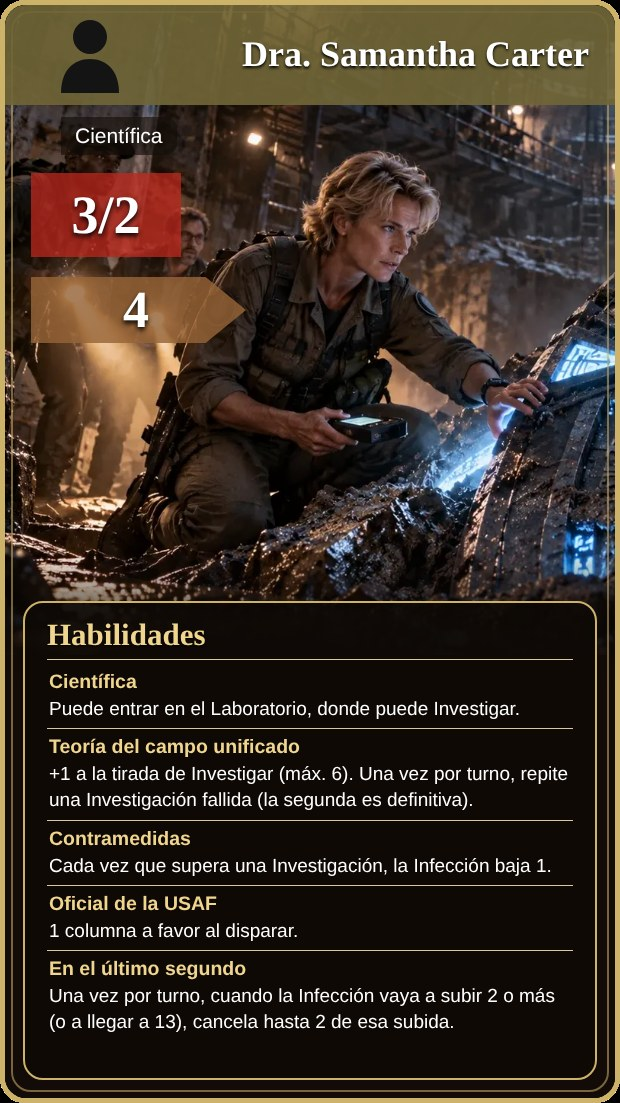
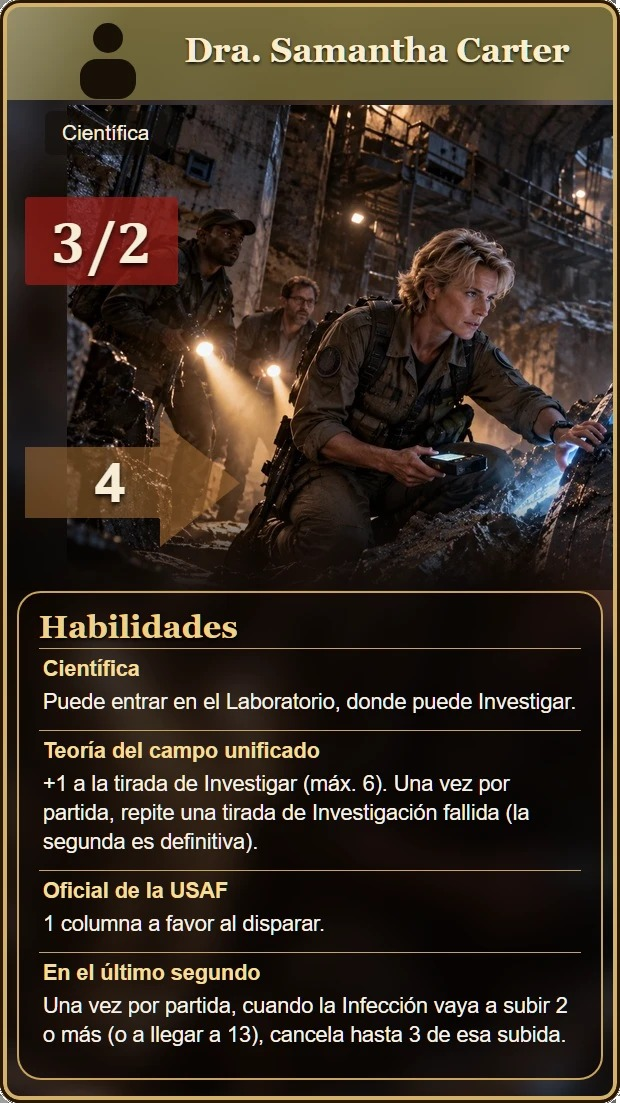
Dra. Carter: se deshacen la carta y el rediseño de habilidades (vuelve a como estaba)
Claude-Session: https://claude.ai/code/session_01KmRiLam16qxK6v4ebdfK1d

diff --git a/js/expansions.js b/js/expansions.js
@@ -25,7 +25,7 @@ Object.assign(HEROES, {
   doc: { name: 'Dr. Emmett «Doc» Brown', type: 'hero', cls: 'Científico', full: 2, red: 1, mp: 4, img: 'doc', lv: 3, exp: 4,
     txt: ['<b>Científico:</b> puede entrar en el Laboratorio, donde puede Investigar.', '<b>Mr. Fusion:</b> si al Buscar no encuentra nada, obtiene 1 Suministro.', '<b>Salto temporal:</b> Acción de Personaje (3 Suministros), una vez por turno, solo desde el Centro. Doc, con una unidad agrupada con él si quiere, viaja a un espacio de ruta de superficie sin Zeds que no sea Inicial. La unidad acompañante puede quedarse allí (no pueden acompañarlo Pepinillos, Horacio, el General Lee ni Carter). Doc vuelve al Centro al final del turno, tras el Mantenimiento, y puede volver solo, con la unidad que llevó o con otra que esté en su espacio.', '<b>Paradoja:</b> si Doc está en un espacio con Caos durante el Mantenimiento, restaurar el orden allí no sube la Infección.'] },
   samcarter: { name: 'Dra. Samantha Carter', type: 'hero', cls: 'Científica', full: 3, red: 2, mp: 4, img: 'samcarter', lv: 3, exp: 4,
-    txt: ['<b>Científica:</b> puede entrar en el Laboratorio, donde puede Investigar.', '<b>Teoría del campo unificado:</b> +1 a la tirada de Investigar (máx. 6). Una vez por turno, repite una tirada de Investigación fallida (la segunda es definitiva).', '<b>Oficial de la USAF:</b> 1 columna a favor al disparar.', '<b>Contramedidas:</b> cada vez que supera una Investigación, la Infección baja 1.', '<b>En el último segundo:</b> una vez por turno, cuando la Infección vaya a subir 2 o más (o a llegar a 13), cancela hasta 2 de esa subida.'] },
+    txt: ['<b>Científica:</b> puede entrar en el Laboratorio, donde puede Investigar.', '<b>Teoría del campo unificado:</b> +1 a la tirada de Investigar (máx. 6). Una vez por partida, repite una tirada de Investigación fallida (la segunda es definitiva).', '<b>Oficial de la USAF:</b> 1 columna a favor al disparar.', '<b>En el último segundo:</b> una vez por partida, cuando la Infección vaya a subir 2 o más (o a llegar a 13), cancela hasta 3 de esa subida.'] },
   macgyver: { name: 'Angus MacGyver', type: 'hero', cls: 'Ciudadano', full: 3, red: 2, mp: 4, img: 'macgyver', lv: 2, exp: 4, nofire: 1, sci: 1,
     txt: ['<b>Pacifista:</b> no dispara con armas de fuego.', '<b>Ingeniero:</b> puede entrar en el Laboratorio, donde puede Investigar. Si la tirada falla por 1, puede gastar 1 Suministro para sumarle +1.', '<b>Con lo que hay:</b> Acción de Personaje (1 vez por turno): convierte 1 Suministro en 2 Munición.', '<b>Cinta americana:</b> construye Barricadas por 1 Suministro.', '<b>Siempre hay otra salida:</b> al ser atacado por Zeds en una ruta, tira 1 dado: con 4-6 se retira gratis 1 espacio hacia el Centro antes del combate.'] },
   sar: { name: 'Búsqueda y Rescate (SAR)', type: 'civh', cls: 'Civiles Heroicos', full: 3, red: 2, mp: 3, img: 'sar', card: 'h_sar', lv: 2, exp: 4, hf: 2, hr: 2,

diff --git a/js/actions.js b/js/actions.js
@@ -105,17 +105,13 @@ async function doInvestigate(u, free) {
   const ib = u.key === 'agee' || u.key === 'samcarter' ? 1 : 0, mods = ib ? [{ label: u.key === 'agee' ? 'Profesora Agee' : 'Samantha Carter', v: 1 }] : [];
   let dice = await UI.rollSimple('Investigar (hace falta ' + c.th + '+)', 1, null, { mods });
   let r = Math.min(6, dice[0] + ib);
-  if (r < c.th && u.key === 'samcarter' && !G.charUsed.samRepeat) {
-    const v = await UI.choose({ title: 'Teoría del campo unificado', text: 'La Investigación ha fallado (' + r + '). ¿Repites la tirada? Solo una vez por turno; la segunda es definitiva.', options: [{ label: 'Repetir', value: 'y' }, { label: 'No', value: 'n' }] });
-    if (v === 'y') { G.charUsed.samRepeat = true; dice = await UI.rollSimple('Investigar otra vez (hace falta ' + c.th + '+)', 1, null, { mods }); r = Math.min(6, dice[0] + ib); }
+  if (r < c.th && u.key === 'samcarter' && !G.once.samRepeat) {
+    const v = await UI.choose({ title: 'Teoría del campo unificado', text: 'La Investigación ha fallado (' + r + '). ¿Repites la tirada? Solo una vez por partida; la segunda es definitiva.', options: [{ label: 'Repetir', value: 'y' }, { label: 'No', value: 'n' }] });
+    if (v === 'y') { G.once.samRepeat = true; dice = await UI.rollSimple('Investigar otra vez (hace falta ' + c.th + '+)', 1, null, { mods }); r = Math.min(6, dice[0] + ib); }
   }
   if (r < c.th && r + 1 >= c.th && u.key === 'macgyver' && G.supplies >= 1 && await UI.choose({ title: 'Ingeniero', text: 'La Investigación ha fallado (' + r + '). ¿Gastas 1 Suministro para sumar +1 y conseguirla?', options: [{ label: 'Gastar 1 Suministro', value: 'y' }, { label: 'No', value: 'n' }] }) === 'y') { G.supplies--; r++; LOG('MacGyver improvisa con 1 Suministro (+1).', 'good'); }
   EVT('investigar', u.id, { carta: c.id, nombre: c.name, umbral: c.th, dado: dice[0], resultado: r, exito: r >= c.th, suministro: !!c.sup, sinAccion: !!usingSup });
-  if (r >= c.th) {
-    LOG('Investigación con éxito (' + r + ').', 'good'); G.turn.researched = true;
-    if (u.key === 'samcarter' && G.lv.infection && G.inf > 0) { infDown(1); LOG('Contramedidas: Samantha Carter reduce la Infección en 1.', 'good'); }
-    await revealResearch();
-  }
+  if (r >= c.th) { LOG('Investigación con éxito (' + r + ').', 'good'); G.turn.researched = true; await revealResearch(); }
   else LOG('La Investigación fracasa (' + r + ').', 'bad');
   UI.updateStats(); return true;
 }

diff --git a/js/engine.js b/js/engine.js
@@ -240,9 +240,9 @@ function alreadyHas(rid) { return G.res && G.res.cur && G.res.cur.id === rid; }
 async function infUp(n) {
   if (!G.lv.infection || n <= 0) return;
   const sam = alive('samcarter');
-  if (sam && !G.charUsed.samLast && (n >= 2 || G.inf + n >= 13)) {
-    const v = await UI.choose({ title: 'En el último segundo', text: 'La Infección va a subir +' + n + '. Samantha Carter puede cancelar hasta 2 de esa subida (una vez por turno). ¿La usas?', options: [{ label: 'Cancelar ' + Math.min(2, n), value: 'y' }, { label: 'No', value: 'n' }] });
-    if (v === 'y') { G.charUsed.samLast = true; const c = Math.min(2, n); n -= c; LOG('En el último segundo: Samantha Carter cancela ' + c + ' de Infección.', 'good'); if (n <= 0) return; }
+  if (sam && !G.once.samLast && (n >= 2 || G.inf + n >= 13)) {
+    const v = await UI.choose({ title: 'En el último segundo', text: 'La Infección va a subir +' + n + '. Samantha Carter puede cancelar hasta 3 de esa subida (una vez por partida). ¿La usas?', options: [{ label: 'Cancelar ' + Math.min(3, n), value: 'y' }, { label: 'No', value: 'n' }] });
+    if (v === 'y') { G.once.samLast = true; const c = Math.min(3, n); n -= c; LOG('En el último segundo: Samantha Carter cancela ' + c + ' de Infección.', 'good'); if (n <= 0) return; }
   }
   while (G.inf + n >= 13 && !G.inWild && await offerHandCards('inf', 'La Infección subirá +' + n + ' y llegaría a 13: <b>Brote Descontrolado</b>.', true)) { }
   const i0 = G.inf; G.inf = Math.min(13, G.inf + n); EVT('inf', null, { de: i0, to: G.inf, d: n }); UI.updateStats(); UI.fxInf(G.inf - i0);

diff --git a/sw.js b/sw.js
@@ -1,7 +1,7 @@
 /* Service worker: permite instalar la web como app y jugar sin conexión.
    Código (html/js/css): red primero, con copia local de reserva. Imágenes y audio: caché primero. */
 'use strict';
-const CACHE = 'doz3-v59';
+const CACHE = 'doz3-v60';
 const SHELL = ['./', 'index.html', 'style.css', 'manifest.webmanifest', 'icons/icon-192.png', 'icons/icon-512.png', 'assets/portada.jpg', 'assets/fondo_nueva.webp', 'assets/fondo_ranking.webp',
   'js/version.js', 'js/data.js', 'js/events.js', 'js/dest.js', 'js/evlog.js', 'js/preview.js', 'js/obituario.js', 'js/engine.js', 'js/game.js', 'js/phases.js', 'js/actions.js', 'js/cardtext.js', 'js/ui.js', 'js/anim.js',
   'js/expansions.js', 'js/expansions2.js', 'js/sfx.js', 'js/sound.js', 'js/opciones.js', 'js/voz.js', 'js/ost.js', 'assets/sonidos/letras/letras.js', 'assets/sonidos/efectos/sfx_disparo.mp3', 'assets/sonidos/efectos/sfx_disparo_largo.mp3', 'js/mapzoom.js', 'js/seedcode.js', 'js/save.js', 'js/main.js', 'js/bot.js'];

diff --git a/js/version.js b/js/version.js
@@ -1,2 +1,2 @@
 /* Fecha y hora de la última build (hora de Madrid). Se actualiza con cada cambio publicado. */
-const BUILD_TIME = '2026-11-01 02:40';
+const BUILD_TIME = '2026-11-01 03:00';

diff --git a/CHANGELOG.md b/CHANGELOG.md
@@ -2,19 +2,10 @@
 
 Registro de cambios por publicación (push a `main`). Lo más reciente, arriba. Cada entrada lleva la misma fecha y hora que `BUILD_TIME` de `js/version.js`.
 
-## 2026-11-01 02:40
+## 2026-11-01 03:00
 
 ### Cambios
-- **Dra. Samantha Carter, rediseño:** sus habilidades «una vez por partida» pasan a ser por turno y gana una propia que la distingue de las demás científicas: la que combate la Infección con la investigación.
-  - **Teoría del campo unificado:** repite una Investigación fallida **una vez por turno** (antes, una vez por partida).
-  - **Contramedidas (nueva):** cada vez que supera una Investigación, la Infección baja 1.
-  - **En el último segundo:** **una vez por turno**, cuando la Infección vaya a subir 2 o más (o a llegar a 13), cancela hasta **2** de esa subida (antes, hasta 3 una vez por partida).
-  - Carta regenerada con las nuevas habilidades.
-
-## 2026-11-01 02:00
-
-### Fixes
-- **Carta de la Dra. Samantha Carter:** la ilustración no llegaba al borde izquierdo de la carta (quedaba una franja oscura y la imagen «corta»). Se ha regenerado el frente con la ilustración a todo el ancho (`tools/generar_samcarter.mjs`); las reglas no cambian.
+- **Dra. Samantha Carter:** se deshacen los cambios de carta y de habilidades de las últimas horas; vuelve exactamente a como estaba (carta e habilidades originales).
 
 ## 2026-11-01 01:35
 
